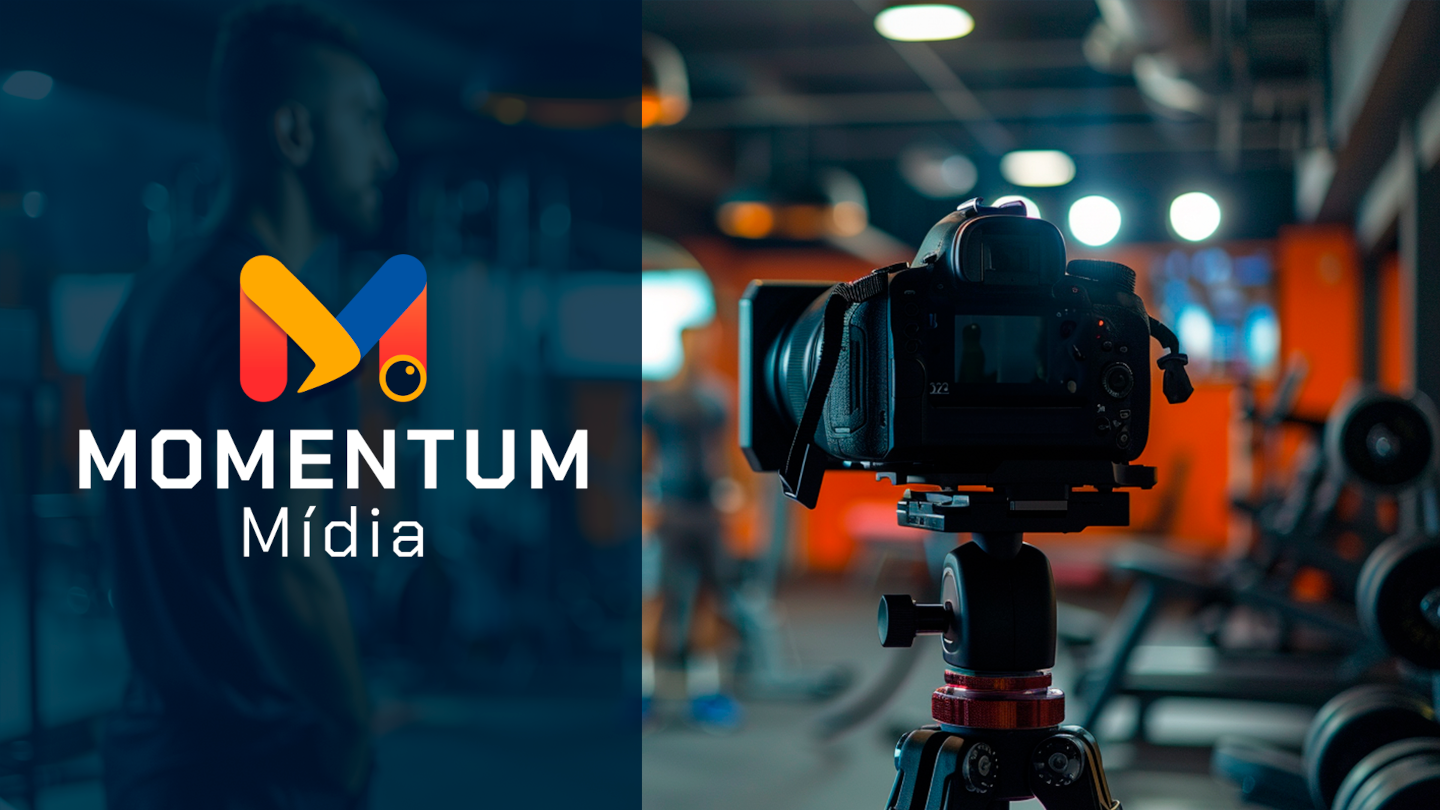
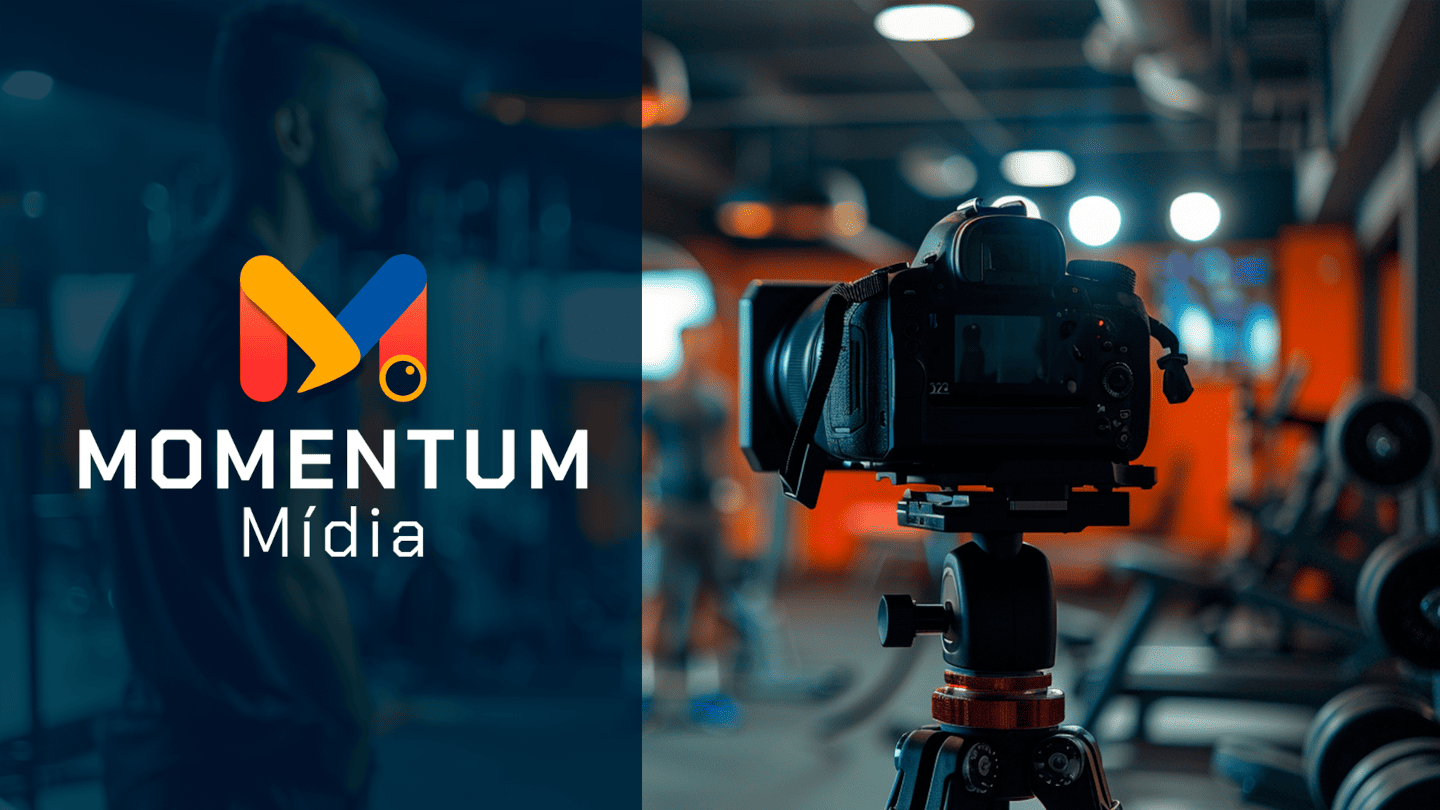
webp e compressão
adicionando pranchet.web e comprimindo imagens e font

diff --git a/index.html b/index.html
@@ -1,1 +1,1 @@
-<!DOCTYPE html><html lang="pt-BR"><head><meta charset="UTF-8"><meta name="viewport" content="width=device-width,initial-scale=1"><meta name="description" content="site para divulgação de criação de conteúdo para empresas no geral, cobertura de eventos, anúncios, fotografias, divulgação de produto/marca e videoclipes."><title>Momentum - criando momentos para sua empresa</title><link rel="stylesheet" href="https://cdnjs.cloudflare.com/ajax/libs/font-awesome/6.6.0/css/all.min.css" integrity="sha512-Kc323vGBEqzTmouAECnVceyQqyqdsSiqLQISBL29aUW4U/M7pSPA/gEUZQqv1cwx4OnYxTxve5UMg5GT6L4JJg==" crossorigin="anonymous" referrerpolicy="no-referrer"><link rel="shortcut icon" href="src/img/favicon/favicon-32x32.png" type="image/x-icon"><link rel="stylesheet" href="src/styles/styles.min/style.min.css"><link rel="stylesheet" href="src/styles/styles.min/Footer&header.min.css"><script src="src/scripts/scripts.min/openModal.min.js" defer="defer"></script></head><body id="body-container"><header tabindex="0" aria-label="cabeçalho - links rápidos, redes sociais"><div class="logo"><a href="index.min.html" aria-label="página home no logotipo" aria-current="page"><img src="src/img/LOGO 1.png" alt="logo da momentum" title="empresa de criação de conteúdo"></a></div><nav class="navigation"><a href="index.min.html" aria-current="page">Home</a><a href="src/pages/about.html">Sobre nós</a><a href="src/pages/contact.html">Contato</a></nav><div class="social-medias"><a href="https://www.instagram.com/momentum_midia/" target="_blank" aria-label="ir para o Instagram"><i class="fab fa-instagram" aria-hidden="true"></i></a><a href="https://www.tiktok.com/@momentum_midia" target="_blank" aria-label="ir para o tiktok"><i class="fab fa-tiktok" aria-hidden="true"></i></a><a id="card-btn" tabindex="0" role="button" aria-label="card de contato - videomaker rodrigo"><i class="far fa-address-card" aria-hidden="true"></i></a><div class="card-container hide"><div class="card"><button id="close-btn" class="close-btn" aria-label="botão de fechar modal">x</button><div class="card-info"><ul><li><span class="card-name">nome:</span><p>Rodrigo dos santos</p><span class="card-name">sobrenome:</span><p>de oliveira</p></li><li><span class="card-name">contato:</span><p>(64) 99283-9447</p></li><li><span class="card-name">email:</span><p>momentum.mida@gmail.com</p></li><li><span class="card-name">cargo:</span><p>video-maker</p></li><li><a href="https://w.app/dDq45j" class="whats-link"><i class="fab fa-whatsapp" aria-hidden="true"></i><p>clique para entrar em contato!</p></a></li></ul></div><div class="card-image"><img src="src/img/fotoeditada.png" alt="Rodrigo - proprietário e video-maker da momentum mídia"> <img src="src/img/qr.png" alt="qr code de contato do rodrigo" title="qr code- aponte a câmera do celular"></div></div></div></div></header><main><div class="first-image-container"><img src="src/img/Prancheta 1.png" alt="momentum logo, seguida de uma imagem de câmera"></div><section class="about" tabindex="0" aria-label="uma breve descrição sobre nós"><h1 tabindex="0">Viva o<span class="momentum-color">"momentum"!</span></h1><article class="article-container"><p tabindex="0">Com a paixão pela experiência em produção de vídeos, nós transformamos ideias em histórias visuais impactantes para empresas de todos os tipos. Nossa abordagem carismática e atenção aos detalhes garantem conteúdos memoráveis, abraçando o ideal de nossos clientes. Nós valorizamos o profissionalismo e construimos confiança com transparência e resultados de alta qualidade. Nos permita levar sua mensagem ao próximo nível, combinando talento, tecnologia e um toque pessoal.</p><img src="src/img/IMG_3627.jpg" alt="Rodrigo, o criador a momentum" tabindex="0"></article></section><section class="plans" tabindex="0" aria-label="algumans parcerias nossas"><div class="call-container"><img src="src/img/LOGO 1.png" alt="logo da empresa momentum"><div class="separate"></div><h2 tabindex="0">Você é o que você mostra,<span class="destaque">e nós vamos te ajudar com isso!</span><i class="fas fa-clapperboard"></i></h2></div><article class="work-container"><h2 tabindex="0">principais parcerias:</h2><div class="video-container"><div class="video" tabindex="0" aria-label="video 1"><iframe width="300" height="500" src="https://www.youtube.com/embed/2xEp6x9JoiA?si=vzYRVCw91zuyXmow&loop=1" title="YouTube video player" frameborder="0" allow="accelerometer; autoplay; clipboard-write; encrypted-media; gyroscope; picture-in-picture; web-share" referrerpolicy="strict-origin-when-cross-origin" allowfullscreen></iframe><a class="know-btn" href="https://www.instagram.com/momentum_midia/" aria-label="no instagram">Saiba mais...</a></div><div class="video" tabindex="0" aria-label="video 2"><iframe width="300" height="500" src="https://www.youtube.com/embed/MbkYpBjqFvg?si=d542ODlC8TCUq4Vo&loop=1" title="YouTube video player" frameborder="0" allow="accelerometer; autoplay; clipboard-write; encrypted-media; gyroscope; picture-in-picture; web-share" referrerpolicy="strict-origin-when-cross-origin" allowfullscreen></iframe><a class="know-btn" href="#" aria-label="no tiktok">Saiba mais...</a></div><div class="video" tabindex="0" aria-label="video 1"><iframe width="300" height="500" src="https://www.youtube.com/embed/GMHf3kRhgm4?si=uI2GXseyxJuyZT5I&loop=1" title="YouTube video player" frameborder="0" allow="accelerometer; autoplay; clipboard-write; encrypted-media; gyroscope; picture-in-picture; web-share" referrerpolicy="strict-origin-when-cross-origin" allowfullscreen></iframe><a class="know-btn" href="#" aria-label="no youtube">Saiba mais...</a></div></article></section></main><footer class="footer" tabindex="0" aria-label="rodapé - contato, links rápidos, redes sociais"><div class="footer-container"><div class="footer-row"><div class="footer-column"><h3 tabindex="0">Contatos</h3><p tabindex="0">Ig: @momentum_midia</p><p tabindex="0">Telefone: (64) 99283-9447<i class="fab fa-whatsapp" aria-hidden="true"></i></p><p tabindex="0">Email: momentum.mida@gmail.com</p></div><div class="footer-column"><h3 tabindex="0">Links Rápidos</h3><ul><li><a href="src/pages/about.html">Sobre Nós</a></li><li><a href="">Serviços</a></li><li><a href="src/pages/useTerms.html">Termos de Uso</a></li></ul></div><div class="footer-column"><h3 tabindex="0">Redes Sociais</h3><ul><li><a href="#">Facebook</a></li><li><a href="#">TikTok</a></li><li><a href="#">Instagram</a></li></ul></div></div><div class="footer-bottom"><p tabindex="0">desenvolvido por<a href="">Dev Louis_C</a></p><p>&copy; 2024 Momentum. Todos os direitos reservados.</p></div></footer></body></html>
+<!DOCTYPE html><html lang="pt-BR"><head><meta charset="UTF-8"><meta name="viewport" content="width=device-width,initial-scale=1"><meta name="description" content="site para divulgação de criação de conteúdo para empresas no geral, cobertura de eventos, anúncios, fotografias, divulgação de produto/marca e videoclipes."><title>Momentum - criando momentos para sua empresa</title><link rel="stylesheet" href="https://cdnjs.cloudflare.com/ajax/libs/font-awesome/6.6.0/css/all.min.css" integrity="sha512-Kc323vGBEqzTmouAECnVceyQqyqdsSiqLQISBL29aUW4U/M7pSPA/gEUZQqv1cwx4OnYxTxve5UMg5GT6L4JJg==" crossorigin="anonymous" referrerpolicy="no-referrer"><link rel="shortcut icon" href="src/img/favicon/favicon-32x32.png" type="image/x-icon"><link rel="stylesheet" href="src/styles/styles.min/style.min.css"><link rel="stylesheet" href="src/styles/styles.min/Footer&header.min.css"><script src="src/scripts/scripts.min/openModal.min.js" defer="defer"></script></head><body id="body-container"><header tabindex="0" aria-label="cabeçalho - links rápidos, redes sociais"><div class="logo"><a href="index.html" aria-label="página home no logotipo" aria-current="page"><img src="src/img/LOGO 1.png" alt="logo da momentum" title="empresa de criação de conteúdo"></a></div><nav class="navigation"><a href="index.html" aria-current="page">Home</a><a href="src/pages/about.html">Sobre nós</a><a href="src/pages/contact.html">Contato</a></nav><div class="social-medias"><a href="https://www.instagram.com/momentum_midia/" target="_blank" aria-label="ir para o Instagram"><i class="fab fa-instagram" aria-hidden="true"></i></a><a href="https://www.tiktok.com/@momentum_midia" target="_blank" aria-label="ir para o tiktok"><i class="fab fa-tiktok" aria-hidden="true"></i></a><a id="card-btn" tabindex="0" role="button" aria-label="card de contato - videomaker rodrigo"><i class="far fa-address-card" aria-hidden="true"></i></a><div class="card-container hide"><div class="card"><button id="close-btn" class="close-btn" aria-label="botão de fechar modal">x</button><div class="card-info"><ul><li><span class="card-name">nome:</span><p>Rodrigo dos santos</p><span class="card-name">sobrenome:</span><p>de oliveira</p></li><li><span class="card-name">contato:</span><p>(64) 99283-9447</p></li><li><span class="card-name">email:</span><p>momentum.mida@gmail.com</p></li><li><span class="card-name">cargo:</span><p>video-maker</p></li><li><a href="https://w.app/dDq45j" class="whats-link"><i class="fab fa-whatsapp" aria-hidden="true"></i><p>clique para entrar em contato!</p></a></li></ul></div><div class="card-image"><img src="src/img/fotoeditada.png" alt="Rodrigo - proprietário e video-maker da momentum mídia"> <img src="src/img/qr.png" alt="qr code de contato do rodrigo" title="qr code- aponte a câmera do celular"></div></div></div></div></header><main><div class="first-image-container"><picture><source srcset="src/img/Prancheta.webp" type="image/webp"><img src="src/img/Prancheta 1.png" alt="momentum logo, seguida de uma imagem de câmera"></picture></div><section class="about" tabindex="0" aria-label="uma breve descrição sobre nós"><h1 tabindex="0">Viva o<span class="momentum-color">"momentum"!</span></h1><article class="article-container"><p tabindex="0">Com a paixão pela experiência em produção de vídeos, nós transformamos ideias em histórias visuais impactantes para empresas de todos os tipos. Nossa abordagem carismática e atenção aos detalhes garantem conteúdos memoráveis, abraçando o ideal de nossos clientes. Nós valorizamos o profissionalismo e construimos confiança com transparência e resultados de alta qualidade. Nos permita levar sua mensagem ao próximo nível, combinando talento, tecnologia e um toque pessoal.</p><img src="src/img/IMG_3627.jpg" alt="Rodrigo, o criador a momentum" tabindex="0"></article></section><section class="plans" tabindex="0" aria-label="algumans parcerias nossas"><div class="call-container"><img src="src/img/LOGO 1.png" alt="logo da empresa momentum"><div class="separate"></div><h2 tabindex="0">Você é o que você mostra,<span class="destaque">e nós vamos te ajudar com isso!</span><i class="fas fa-clapperboard"></i></h2></div><article class="work-container"><h2 tabindex="0">principais parcerias:</h2><div class="video-container"><div class="video" tabindex="0" aria-label="video 1"><iframe width="300" height="500" src="https://www.youtube.com/embed/2xEp6x9JoiA?si=vzYRVCw91zuyXmow&loop=1" title="YouTube video player" frameborder="0" allow="accelerometer; autoplay; clipboard-write; encrypted-media; gyroscope; picture-in-picture; web-share" referrerpolicy="strict-origin-when-cross-origin" allowfullscreen></iframe><a class="know-btn" href="https://www.instagram.com/momentum_midia/" aria-label="no instagram">Saiba mais...</a></div><div class="video" tabindex="0" aria-label="video 2"><iframe width="300" height="500" src="https://www.youtube.com/embed/MbkYpBjqFvg?si=d542ODlC8TCUq4Vo&loop=1" title="YouTube video player" frameborder="0" allow="accelerometer; autoplay; clipboard-write; encrypted-media; gyroscope; picture-in-picture; web-share" referrerpolicy="strict-origin-when-cross-origin" allowfullscreen></iframe><a class="know-btn" href="#" aria-label="no tiktok">Saiba mais...</a></div><div class="video" tabindex="0" aria-label="video 1"><iframe width="300" height="500" src="https://www.youtube.com/embed/GMHf3kRhgm4?si=uI2GXseyxJuyZT5I&loop=1" title="YouTube video player" frameborder="0" allow="accelerometer; autoplay; clipboard-write; encrypted-media; gyroscope; picture-in-picture; web-share" referrerpolicy="strict-origin-when-cross-origin" allowfullscreen></iframe><a class="know-btn" href="#" aria-label="no youtube">Saiba mais...</a></div></article></section></main><footer class="footer" tabindex="0" aria-label="rodapé - contato, links rápidos, redes sociais"><div class="footer-container"><div class="footer-row"><div class="footer-column"><h3 tabindex="0">Contatos</h3><p tabindex="0">Ig: @momentum_midia</p><p tabindex="0">Telefone: (64) 99283-9447<i class="fab fa-whatsapp" aria-hidden="true"></i></p><p tabindex="0">Email: momentum.mida@gmail.com</p></div><div class="footer-column"><h3 tabindex="0">Links Rápidos</h3><ul><li><a href="src/pages/about.html">Sobre Nós</a></li><li><a href="">Serviços</a></li><li><a href="src/pages/useTerms.html">Termos de Uso</a></li></ul></div><div class="footer-column"><h3 tabindex="0">Redes Sociais</h3><ul><li><a href="#">Facebook</a></li><li><a href="#">TikTok</a></li><li><a href="#">Instagram</a></li></ul></div></div><div class="footer-bottom"><p tabindex="0">desenvolvido por<a href="">Dev Louis_C</a></p><p>&copy; 2024 Momentum. Todos os direitos reservados.</p></div></footer></body></html>

diff --git a/src/styles/styles.min/Footer&header.min.css b/src/styles/styles.min/Footer&header.min.css
@@ -1,1 +1,1 @@
-.navigation a,.social-medias a{color:var(--l-yellow)}.footer,.navigation a:hover,.social-medias a:hover{color:#fff}.artist,a{text-decoration:none}@font-face{font-family:'pjt fonte';src:url(../fonts/ChakraPetch-Regular.ttf)}@keyframes led{0%,100%{box-shadow:2px -1px 10px red}50%{box-shadow:0 0 0 red}}*{margin:0;padding:0;box-sizing:border-box;font-family:'pjt fonte'}:root{--l-yellow:#e0a52c;--l-blue:#1b559d;--l-dark-blue:#002237;--l-red:#ff0000;--l-pink:#cf7142;--l-dark-purple:#080927}header{display:flex;justify-content:space-between;align-items:center;padding:0 50px 0 5px;background-color:var(--l-dark-purple)}.logo img{width:140px}.navigation{width:30%;display:flex;justify-content:space-evenly}.navigation a{font-size:1.3rem;position:relative}.social-medias{width:10%;display:flex;justify-content:space-evenly;font-size:1.3rem;transition:1s ease-in-out}.navigation a,.social-medias a{transition:.5s}.navigation a::after{content:'';width:0%;position:absolute;left:0;bottom:0;border-bottom:2px solid var(--l-yellow);transition:.5s ease-in-out}.navigation a:hover::after{width:100%}.footer{background-color:var(--l-dark-blue);padding:20px 0;text-align:center;font-weight:lighter}.footer-container{max-width:1200px;margin:0 auto;display:flex;flex-wrap:wrap;justify-content:space-between}.footer-row{display:flex;width:100%;justify-content:space-between}.footer-column{flex:1;padding:10px}.footer-column h3{font-size:18px;margin-bottom:10px;color:#f39c12}.footer-column a,.footer-column p{color:#bdc3c7;font-size:14px;text-decoration:none}.footer-bottom a,.footer-column a:hover{color:#f39c12}.footer-bottom{padding:10px 0;border-top:1px solid #34495e;margin-top:20px}.footer-bottom p{margin:0}.artist{color:var(--l-yellow)}
+.navigation a,.social-medias a{color:var(--l-yellow)}.footer,.navigation a:hover,.social-medias a:hover{color:#fff}.artist,a{text-decoration:none}@font-face{font-family:'pjt fonte';src:url(../../fonts/ChakraPetch-Regular.woff2)}@keyframes led{0%,100%{box-shadow:2px -1px 10px red}50%{box-shadow:0 0 0 red}}*{margin:0;padding:0;box-sizing:border-box;font-family:'pjt fonte', Arial, Helvetica, sans-serif}:root{--l-yellow:#e0a52c;--l-blue:#1b559d;--l-dark-blue:#002237;--l-red:#ff0000;--l-pink:#cf7142;--l-dark-purple:#080927}header{display:flex;justify-content:space-between;align-items:center;padding:0 50px 0 5px;background-color:var(--l-dark-purple)}.logo img{width:140px}.navigation{width:30%;display:flex;justify-content:space-evenly}.navigation a{font-size:1.3rem;position:relative}.social-medias{width:10%;display:flex;justify-content:space-evenly;font-size:1.3rem;transition:1s ease-in-out}.navigation a,.social-medias a{transition:.5s}.navigation a::after{content:'';width:0%;position:absolute;left:0;bottom:0;border-bottom:2px solid var(--l-yellow);transition:.5s ease-in-out}.navigation a:hover::after{width:100%}.footer{background-color:var(--l-dark-blue);padding:20px 0;text-align:center;font-weight:lighter}.footer-container{max-width:1200px;margin:0 auto;display:flex;flex-wrap:wrap;justify-content:space-between}.footer-row{display:flex;width:100%;justify-content:space-between}.footer-column{flex:1;padding:10px}.footer-column h3{font-size:18px;margin-bottom:10px;color:#f39c12}.footer-column a,.footer-column p{color:#bdc3c7;font-size:14px;text-decoration:none}.footer-bottom a,.footer-column a:hover{color:#f39c12}.footer-bottom{padding:10px 0;border-top:1px solid #34495e;margin-top:20px}.footer-bottom p{margin:0}.artist{color:var(--l-yellow)}
